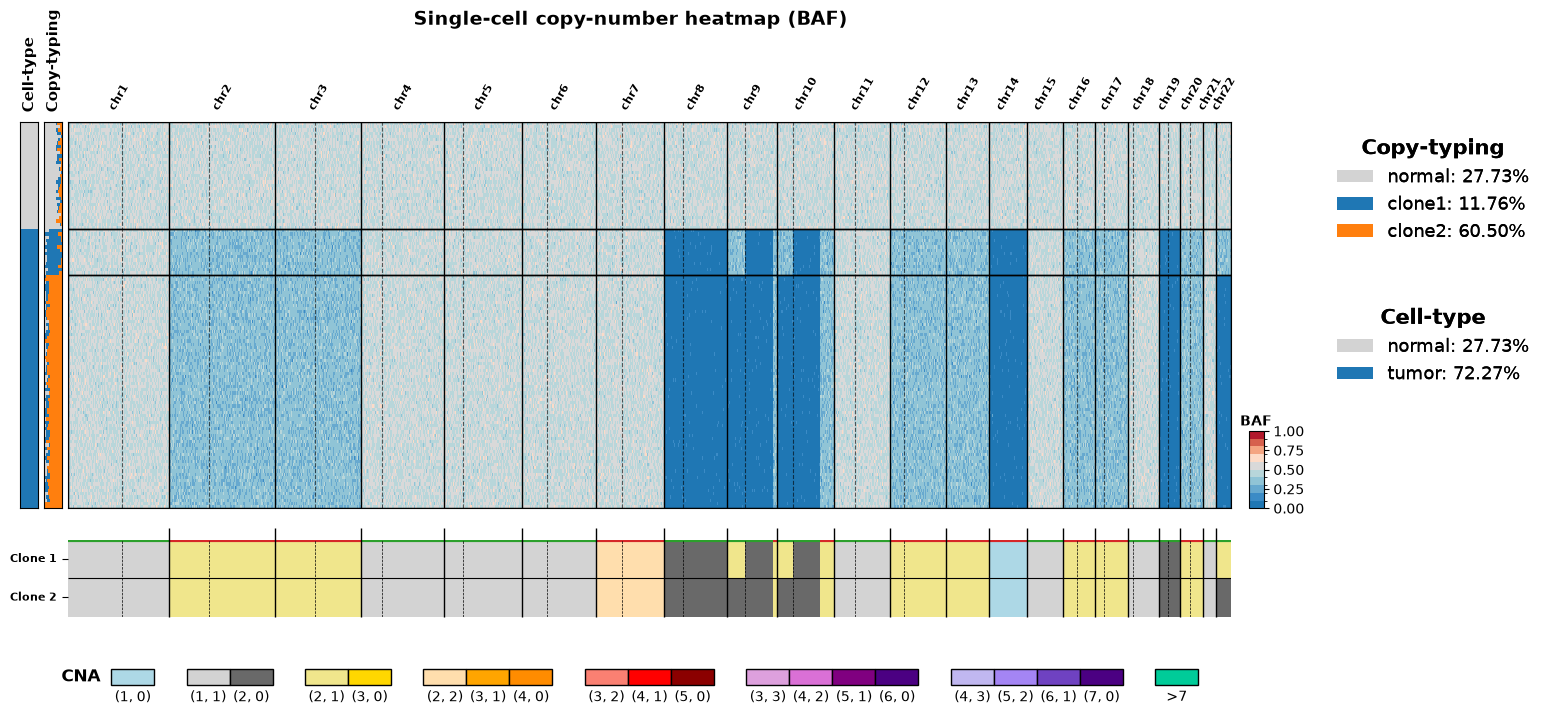
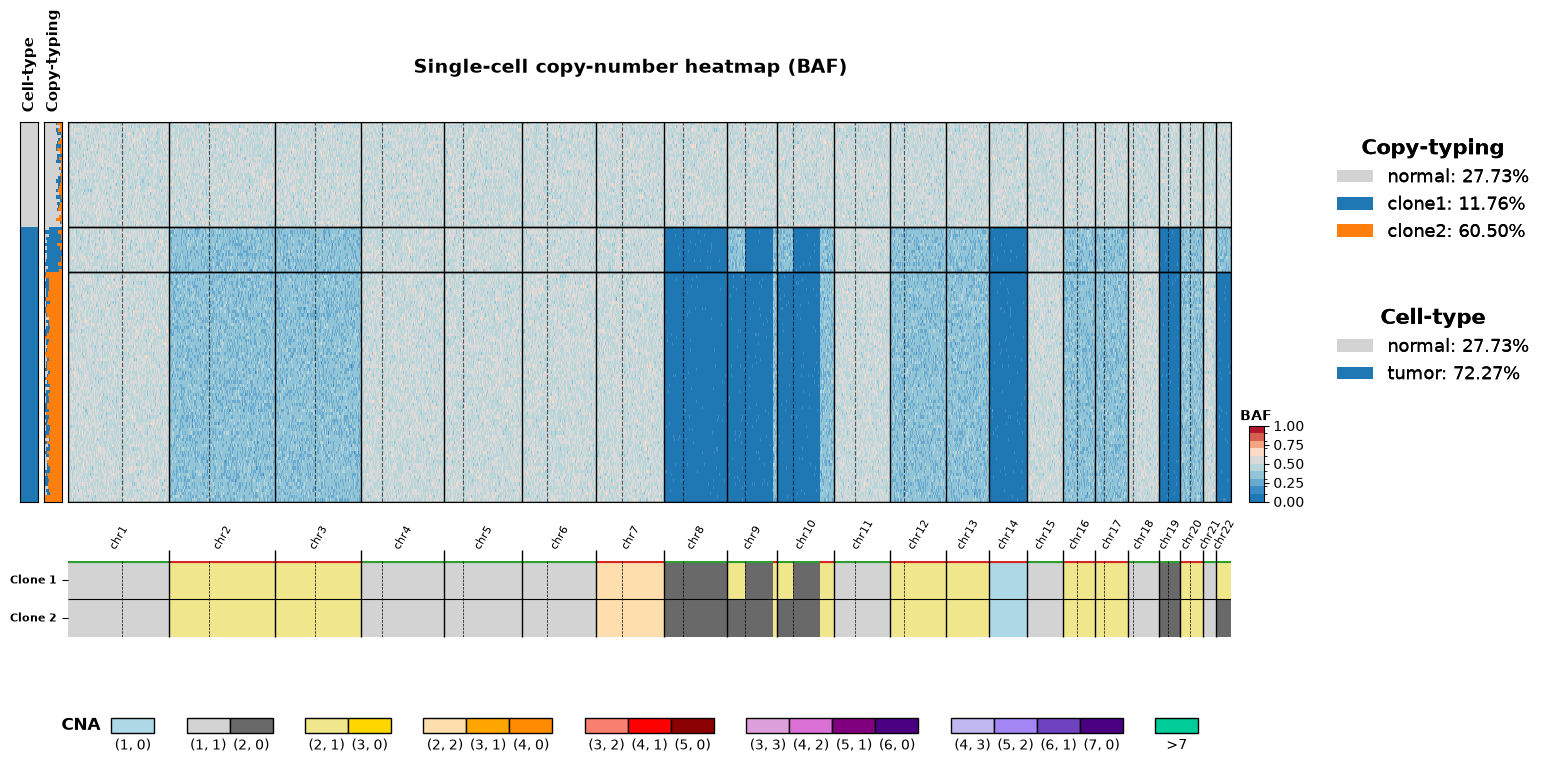
Move heatmap-page chromosome labels onto the profile
In plot_heatmap_cnp the chromosome names now sit on top of the integer-CN
profile, between it and the heatmap, and label both; the heatmap is drawn
without them. Widen profile_hspace (0.18 -> 0.35) to hold the labels in the gap
and raise top (0.84 -> 0.9) since the space above the heatmap only carries the
title now. Update the page test and regenerate the RDR/BAF gallery figures.

diff --git a/src/cnplot/cnplot_figures.py b/src/cnplot/cnplot_figures.py
@@ -352,16 +352,17 @@ def plot_heatmap_cnp(
     title: str | None = None,
     figsize: tuple = (15, 8),
     height_ratios: tuple = (10, 2, 1.5),
-    profile_hspace: float = 0.18,
-    top: float = 0.84,
+    profile_hspace: float = 0.35,
+    top: float = 0.9,
     profile_kwargs: dict | None = None,
     **heatmap_kwargs,
 ) -> plt.Figure:
     """Compose the single-cell heatmap page: mesh, CN profile, and legend.
 
     Three stacked rows - the value heatmap (with its colorbar, side strips, and
-    legends), the integer-CN profile, and the profile legend. Only the heatmap
-    carries chromosome names, so the profile is drawn without them.
+    legends), the integer-CN profile, and the profile legend. The chromosome
+    names sit on top of the profile, between it and the heatmap above, and label
+    both; the heatmap itself is drawn without them.
 
     Everything that shapes the mesh - the row-reduced ``matrix``, its ``cmap`` /
     ``norm``, and the ``strips`` - is a ``plot_heatmap`` argument passed straight
@@ -376,22 +377,25 @@ def plot_heatmap_cnp(
         title: Figure title, bold, above the heatmap. None omits it.
         figsize: Figure size in inches.
         height_ratios: Row heights for (heatmap, profile, legend).
-        profile_hspace: Space between the heatmap and the profile below it.
+        profile_hspace: Space between the heatmap and the profile below it; holds
+            the chromosome labels drawn on top of the profile.
         top: Top of the axes block in figure fraction; the space above holds the
-            heatmap's rotated chromosome labels and the title.
+            title.
         profile_kwargs: Extra arguments for
-            :func:`~cnplot.cnplot_intcnp.plot_cnv_profile`. ``plot_chrname`` is
-            forced off since the heatmap already labels the chromosomes.
+            :func:`~cnplot.cnplot_intcnp.plot_cnv_profile`. ``plot_chrname``
+            defaults on so the profile carries the chromosome labels.
         **heatmap_kwargs: Passed to :func:`~cnplot.cnplot_heatmap.plot_heatmap`;
-            ``show_colorbar`` and hidden block labels default on for the page.
+            ``show_colorbar`` and hidden block labels default on for the page, and
+            ``plot_chrname`` is forced off so only the profile labels chromosomes.
 
     Returns:
         The figure. The caller saves and closes it.
     """
     heatmap_kwargs.setdefault("show_colorbar", True)
     heatmap_kwargs.setdefault("show_block_labels", False)
+    heatmap_kwargs["plot_chrname"] = False
     profile_kwargs = dict(profile_kwargs or {})
-    profile_kwargs["plot_chrname"] = False
+    profile_kwargs.setdefault("plot_chrname", True)
 
     fig, axes = plt.subplots(
         3, 1, figsize=figsize, gridspec_kw={"height_ratios": list(height_ratios)}

diff --git a/tests/test_heatmap.py b/tests/test_heatmap.py
@@ -214,7 +214,8 @@ def test_plot_heatmap_cnp_page(axis, sim, saved):
     assert len([p for p in profile_ax.patches if isinstance(p, Rectangle)]) >= 2 * n_seg
     # colorbar + one strip axes were added beyond the three base axes
     assert len(fig.axes) >= 3 + 2
-    # only the heatmap carries chromosome labels; the profile does not
+    # chromosome labels sit on the profile (top), not the heatmap
     prof_labels = [t.get_text() for t in profile_ax.get_xticklabels() if t.get_text()]
-    assert prof_labels == []
+    heat_labels = [t.get_text() for t in heatmap_ax.get_xticklabels() if t.get_text()]
+    assert prof_labels and heat_labels == []
     saved(fig, "heatmap_cnp_page")
